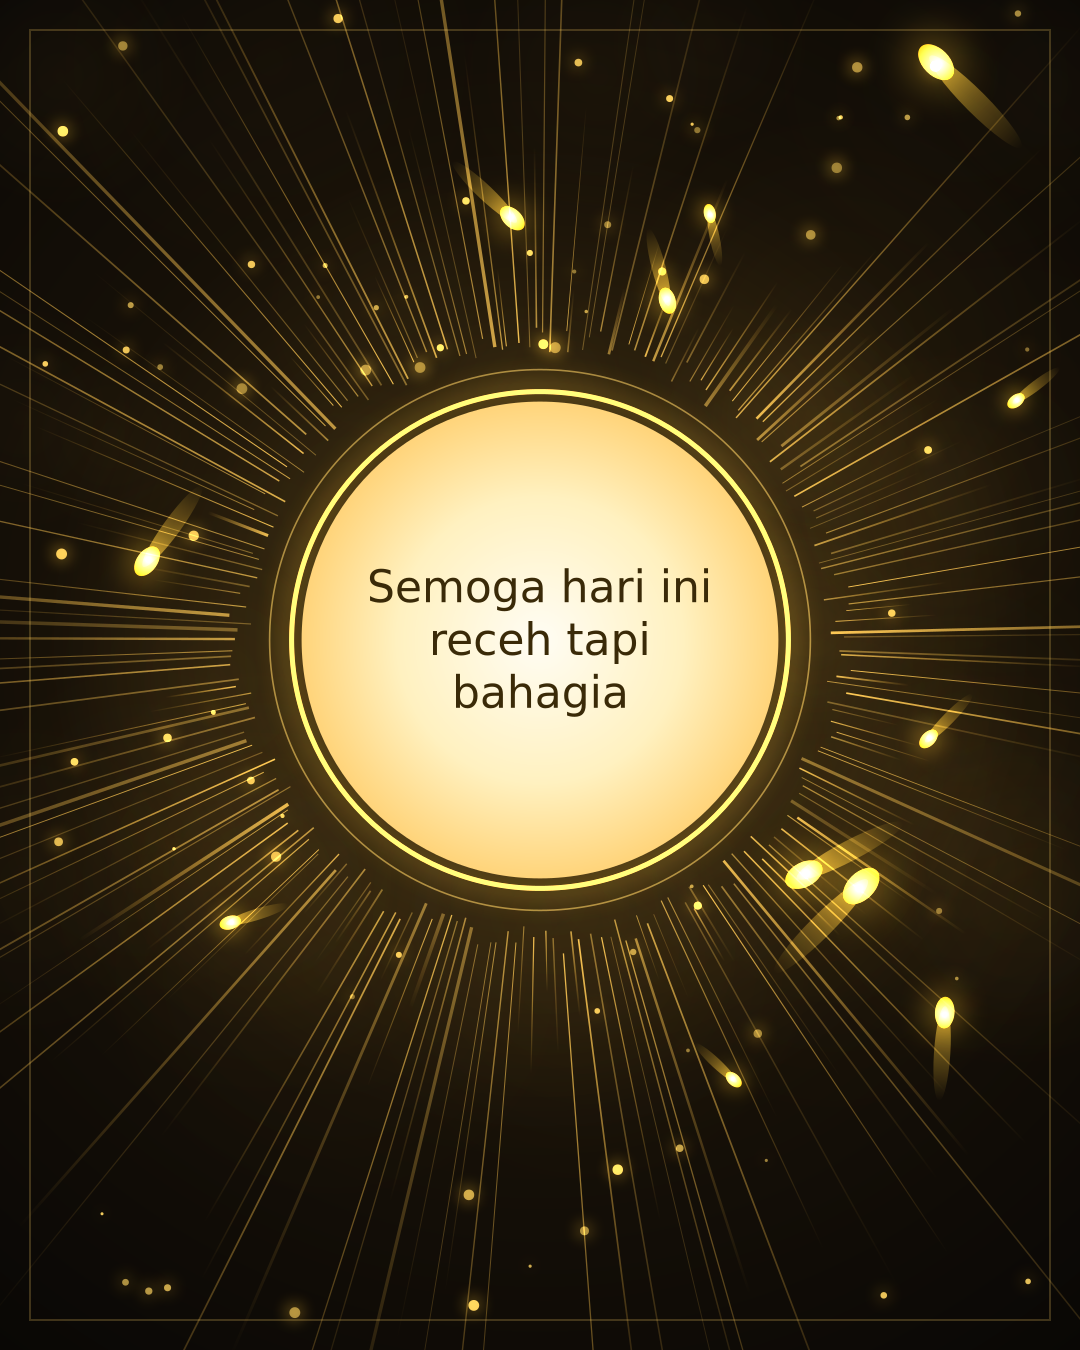
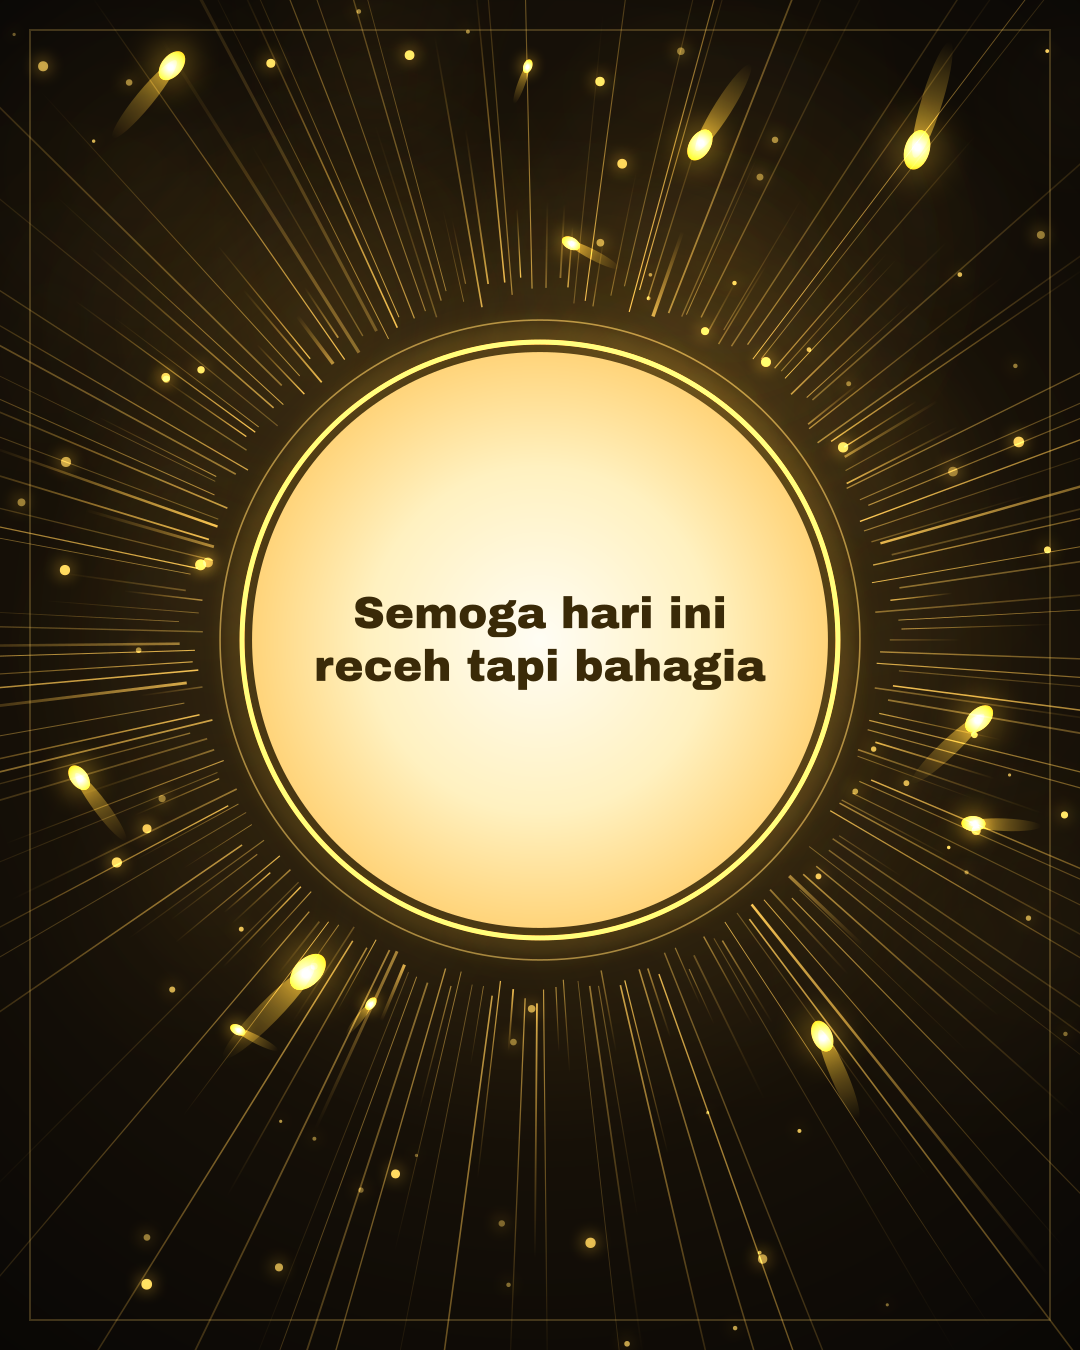
Add files via upload

diff --git a/index.html b/index.html
@@ -294,7 +294,11 @@ async function draw(text){
   try{if(document.fonts&&document.fonts.load)await Promise.race([document.fonts.load('52px "Archivo Black"'),new Promise(function(r){setTimeout(r,1500)})])}catch(e){}
   var W=1080,H=1350,cx=W/2,cy=640,TAU=Math.PI*2,i;
   cv=document.createElement('canvas');cv.width=W;cv.height=H;var c=cv.getContext('2d');
-  var R=150+Math.min(text.length,40)*2.6;
+  var fs=text.length<=10?72:text.length<=20?58:text.length<=30?50:44,maxW=520,lh=fs*1.2,lines=[];
+  c.font=fs+'px "Archivo Black",Impact,sans-serif';
+  wrap(c,text,maxW).forEach(function(l){while(c.measureText(l).width>maxW&&l.length>1){var n=l.length;while(n>1&&c.measureText(l.slice(0,n)).width>maxW)n--;lines.push(l.slice(0,n));l=l.slice(n)}lines.push(l)});
+  var tw=0;lines.forEach(function(l){tw=Math.max(tw,c.measureText(l).width)});
+  var th=lines.length*lh,R=Math.min(400,Math.max(150,Math.sqrt(tw*tw/4+th*th/4)+56));
   function rnd(a,b){return a+Math.random()*(b-a)}
   c.fillStyle='#070605';c.fillRect(0,0,W,H);
   c.globalCompositeOperation='lighter';
@@ -326,10 +330,8 @@ async function draw(text){
   c.globalCompositeOperation='source-over';c.shadowBlur=0;
   var dg=c.createRadialGradient(cx,cy,0,cx,cy,R);dg.addColorStop(0,'#fffdf4');dg.addColorStop(.6,'#fff1c0');dg.addColorStop(1,'#ffd47a');
   c.fillStyle=dg;c.beginPath();c.arc(cx,cy,R,0,TAU);c.fill();
-  var fs=text.length<=10?64:text.length<=20?52:44,lines,maxW=R*1.45;
-  for(;;){c.font=fs+'px "Archivo Black",Impact,sans-serif';lines=wrap(c,text,maxW);if(fs<=24||lines.every(function(l){return c.measureText(l).width<=maxW}))break;fs-=2}
-  c.fillStyle='#3a2a08';c.textAlign='center';c.textBaseline='middle';
-  var lh=fs*1.2,y0=cy-(lines.length-1)*lh/2;
+  c.font=fs+'px "Archivo Black",Impact,sans-serif';c.fillStyle='#3a2a08';c.textAlign='center';c.textBaseline='middle';
+  var y0=cy-(lines.length-1)*lh/2;
   lines.forEach(function(l,n){c.fillText(l,cx,y0+n*lh)});
   c.strokeStyle='rgba(255,210,100,.22)';c.lineWidth=2;c.strokeRect(30,30,W-60,H-60);
   img.src=cv.toDataURL('image/png');
